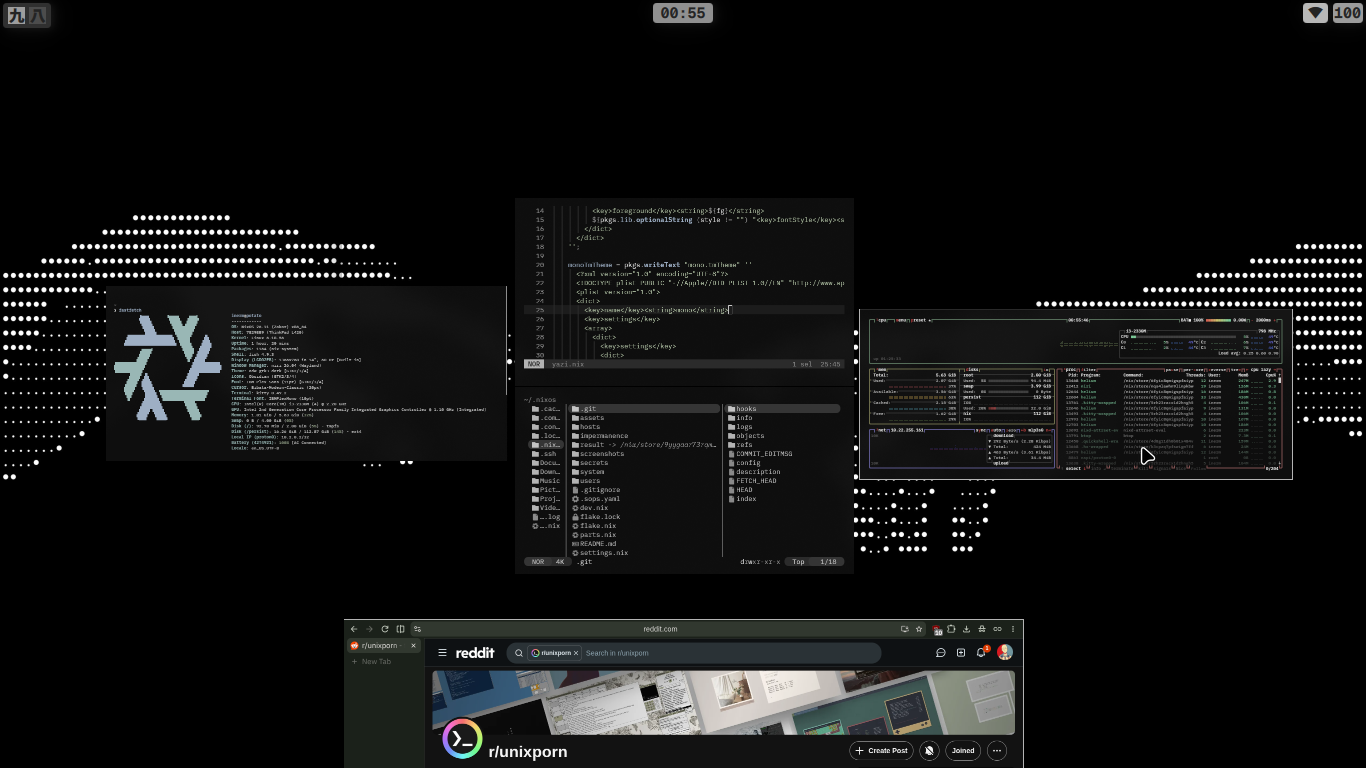
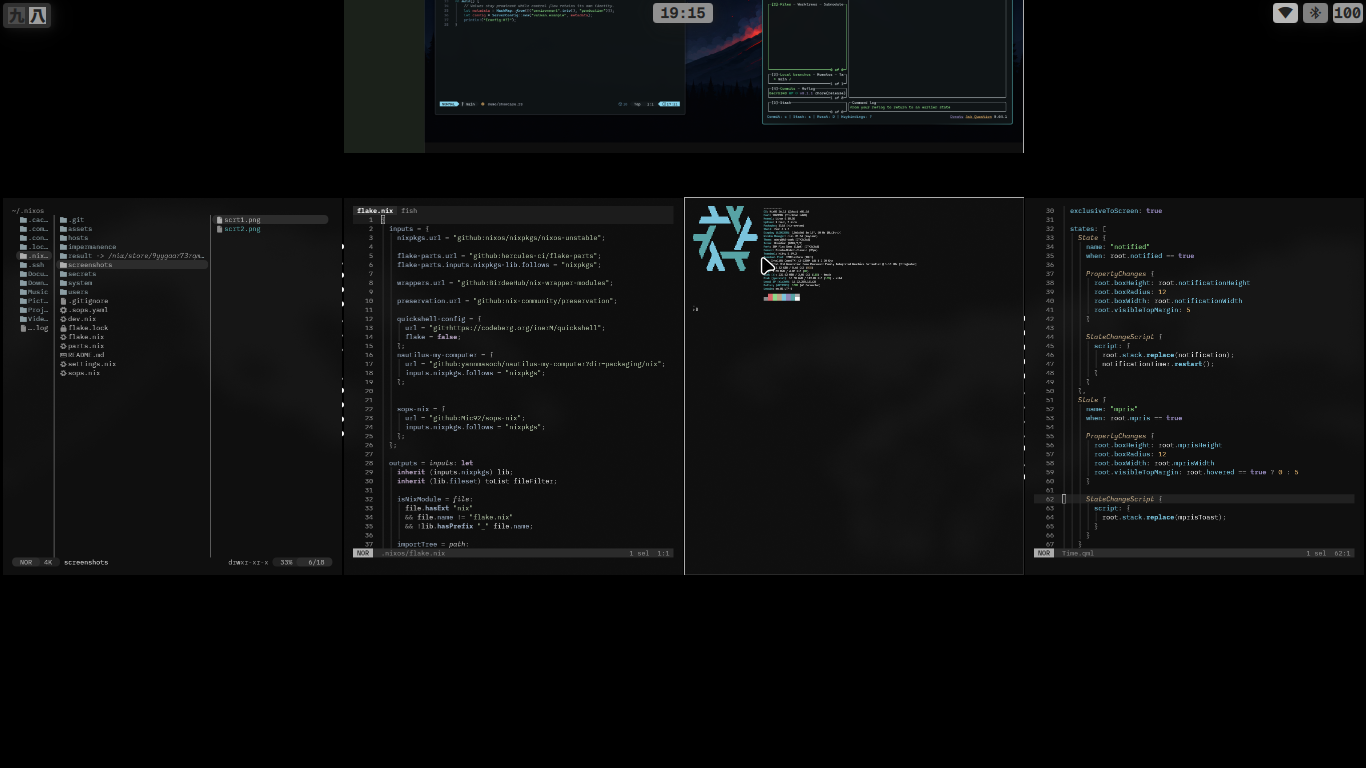
updated readme for switch to tmpfs from btrfs

diff --git a/README.md b/README.md
@@ -17,12 +17,13 @@
 - [Theming](#theming)
 - [QuickShell](#quickshell)
 - [Holy Thanks](#holy-thanks)
+- [spNotes](#spnotes)
 
 ---
 
 ## Overview
 
-This configuration is made to be **as minimal as possible**—focusing on reproducibility, and zero unnecessary bloat. It provides a wrapped, modular desktop environment without overhead. It also includes **optional** impermanence (root wiped on every boot, btrfs based). It is off by default for the `potato` host and can be switched on with one uncomment - it works only on `btrfs` filesystem (for now)- [Read](#impermanence)
+This configuration is made to be **as minimal as possible**—focusing on reproducibility, and zero unnecessary bloat. It provides a wrapped, modular desktop environment without overhead. It also includes **optional** impermanence (root wiped on every boot,tmpfs). It is off by default for the `potato` host and can be switched on with one uncomment. - [Read](#impermanence)
 
 ---
 
@@ -45,17 +46,17 @@ Necessary window manager shortcuts: discover lot more :)
 
 ## Installation
 >[!IMPORTANT]
->Impermanence is **optional**. If your disk is not btrfs, or you just don't want it, skip step 1 and the config works on any normal filesystem.
->Repo clone is required. Remote build is not fully prepared yet. But remote launch app via `nix run "git+https://codeberg.org/inerM/nixos.git#Appname"` is supported for the wrapped apps.
+>Impermanence is **optional**. if you dont want this skip step 1 and the config works on any normal filesystem.
+>for password u need to edit the praimaryuser.nix, comment out the sops, hassedpass aspects.
 ### 1. Choose: with or without impermanence
-- **With impermanence** (btrfs): refer to [Impermanence](#impermanence)
+- **With impermanence** (tmpfs): refer to [Impermanence](#impermanence)
   ```nix
     		]
   		++ (with self.nixosModules; [ 
 	   # impermanence  <------ uncomment this.
 
   ```
-- **Without impermanence**(nay filesystem): skip step 1.
+- **Without impermanence**: skip step 1.
 
 ### 2. Clone the repository
 ```bash
@@ -102,52 +103,25 @@ will include later (its unnecessary anyway for a dendritic setup )
 ---
 
 ## Impermanence
+switched to lot simpler tmpfs root. to use it you must have to have only one partion where whole `/`resides.
+the `/boot` are mounted at `/persist` during boot so that it wont crash into emergency mode.
+>[!note]
+>during installation you might encounter grub not finding kernel in legacy BIOS devices. You need to find workaround to fix that.
 
-You dont want it, skip it. To use it your disk must be in `btrfs` having `/persist`, `/`, `/nix` as subvol in a your main partition. Root (`/`) is wiped on every boot. Only what is declared as persistent survives. This ephemeral root setup used btrfs wipe instead of tmpfs due to some personal reasons (im having RAM crisis,lol).
-
-> [!NOTE]
-> Optional. To turn it off, stop bothering this section (see [Installation](#installation)). Everything below applies only when it is enabled.
-
-### How it works
-
-`fs.nix` mounts three btrfs subvolumes from one partition (label `persist`):
-
+## structure
 ```text
-persist partition (btrfs)
-├── root     -> /         deleted and recreated empty on every boot
-├── persist  -> /persist  kept (user data and selected system state)
-└── nix      -> /nix      kept (the Nix store)
+.
+└── /    <---- except the /persist whole section is going to wipe on boot/
+    ├── /bin
+    ├── /boot
+    ├── /etc
+    ├── /persist/
+    │   ├── /boot   <----- the /boot is mounted here so it wont wipe
+    │   └── /nix    <------ same for it. you can preserve more . see the preservance.nix
+    ├── /var
+    └── /nix
 ```
-
-- A systemd initrd service (`rollback-root`, in `fs.nix`) deletes the `root` subvolume and creates a fresh one before root is mounted.
-- `preservation.nix` ([nix-community/preservation](https://github.com/nix-community/preservation)) bind-mounts the chosen directories and files from `/persist` back into place.
-- `persist` and `nix` are bros of `root`, not childs, so the wipe never touches them.
-
-### Requirements
-
-| Needed | Details |
-| :--- | :--- |
-| Partition | One btrfs partition labeled `persist` with subvolumes `root`, `persist`, `nix` |
-| /boot | Separate FAT32 partition labeled `BOOT` (ESP on UEFI, /boot on BIOS) |
-| Swap | Optional, partition labeled `swap` (set `my.fs.swapDevice = null;` for none) |
-| Initrd | `boot.initrd.systemd.enable = true` (already set in `preservation.nix`) |
-| Password | Must be declared (`hashedPasswordFile` or `hashedPassword`), because `passwd` changes are wiped |
-
-### Why btrfs instead of tmpfs
-
-| | tmpfs root | btrfs wipe-on-boot |
-| :--- | :--- | :--- |
-| Root lives in | RAM | Disk |
-| Size limit | Fixed, eats RAM | Free disk space |
-| Big temp files (builds, caches) | Can fill RAM and cause OOM | Fine, uses disk |
-| Setup | Simplest | Needs rollback script and subvolumes |
-
-tmpfs is lot simpler if you have plenty of RAM. (im having RAM crisis, bruh!)
-
-### Disk setup (from a live ISO)
-> [!WARNING]
-> This process required live usb iso and will nuke your drive. So only try if moderate or above, [Here](https://btrfs.readthedocs.io/en/latest/btrfs-subvolume.html).
- make those partition and subvol acoording to the ![Requirements](#requirements) and clone the repo to the clone the repo into `/mnt/persist/home/<user>/.nixos`, then install:
+## Install
 ```bash
 nixos-install --root /mnt --no-root-passwd --impure --flake /mnt/persist/home/<user>/.nixos#<hostname>
 ```
@@ -205,3 +179,8 @@ for Detailed info read [Quickshell-config](https://codeberg.org/inerM/quickshell
 Special thanks to:
 - [Vimjoyer](https://github.com/vimjoyer/nixconf) — for the foundational dendritic pattern and wrapped programmes, specially neovim.
 - [A Dumb Human](https://git.voidarc.co.uk/voidarc/quickshell) — for quickshell.
+
+## SpNotes
+Reguarding AI , i did use ai for debugging, code: cleanup, commenting etc usecaes. `the config is not made by Ai.` I am not against using ai but copy-pasting from LLM kills the purpose of open community.
+In the config you migh encounter comments in the code files which are for repo understanding pupose, in some minute areas doing maually will take ages. thats where i used ai to code cleanup and inserting understandable commets.
+thanks..
